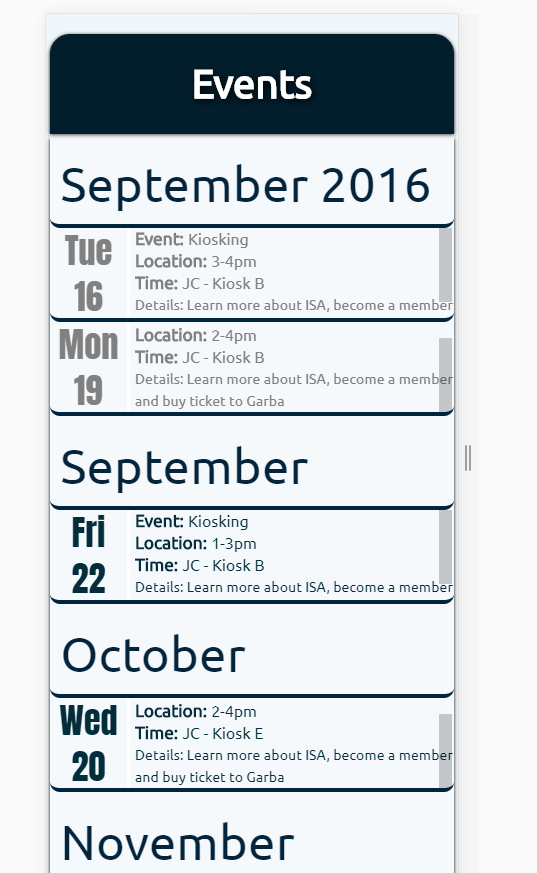
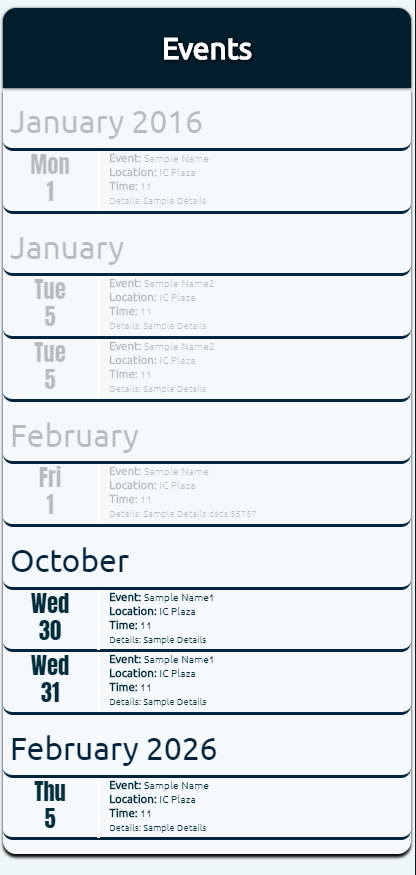
google doc format

diff --git a/cardStyleCalendar/js/script.js b/cardStyleCalendar/js/script.js
@@ -22,30 +22,30 @@ $(function(){
 	
 	//request.send();
 	var JSONURL= 'https://spreadsheets.google.com/feeds/list/1vHC9mKler--bunAvBmumJqQ7-e_mb6K3P4fC1-njFVQ/1/public/basic?alt=json';
-	 $.ajax({
-        url: JSONURL,
-        success: function(data){
-            
-	
-			var calendarEntry = [];
-
-			var cells = data.feed.entry;
-			
-			for (var i = 0; i < cells.length; i++){
-				var dayEntry = new Object();
-				var rowsCols = cells[i].content.$t.split(',');
-				
-				for(var j = 0; j< rowsCols.length; j++){
-					var pair = rowsCols[j].split(':');
-					dayEntry[pair[0].trim()] = pair[1].trim(); 
-				}
-				calendarEntry.push(dayEntry);
-				if(DEBUG) console.log("loaded dayEntry", dayEntry);
-			}
-			
-        	renderCalendarEntry(calendarEntry);
+	$.ajax({
+	url: JSONURL,
+	success: function(data){
 		
+
+		var calendarEntry = [];
+
+		var cells = data.feed.entry;
+		
+		for (var i = 0; i < cells.length; i++){
+			var dayEntry = new Object();
+			var rowsCols = cells[i].content.$t.split(',');
+			
+			for(var j = 0; j< rowsCols.length; j++){
+				var pair = rowsCols[j].split(':');
+				dayEntry[pair[0].trim()] = pair[1].trim(); 
+			}
+			calendarEntry.push(dayEntry);
+			if(DEBUG) console.log("loaded dayEntry", dayEntry);
 		}
+		
+		renderCalendarEntry(calendarEntry);
+
+	}
 		
 		
 		});
@@ -87,7 +87,7 @@ function renderCalendarEntry(data) {
 	  
 	
 	  	  
-	  var description = [eventName, eventTime, eventLocation, eventDetail ];
+	  var description = [eventName, eventLocation, eventTime, eventDetail ];
 	  console.log("event created: ", day,date,month, year, description);
 	  createDaysEntry(day,date,month, year, createDescription(description));
 	  
